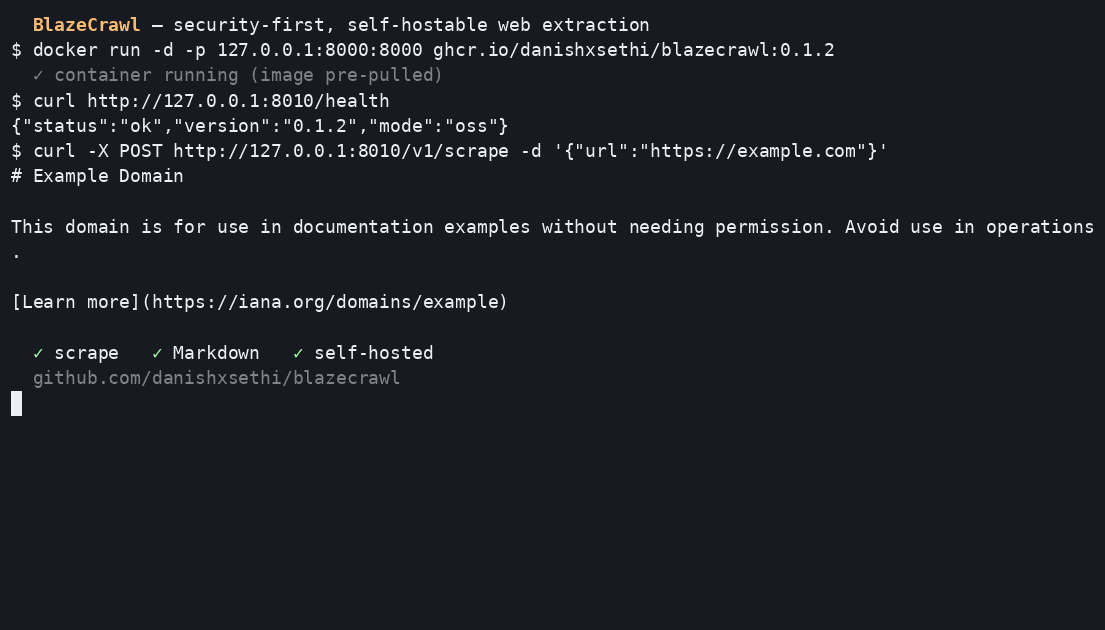
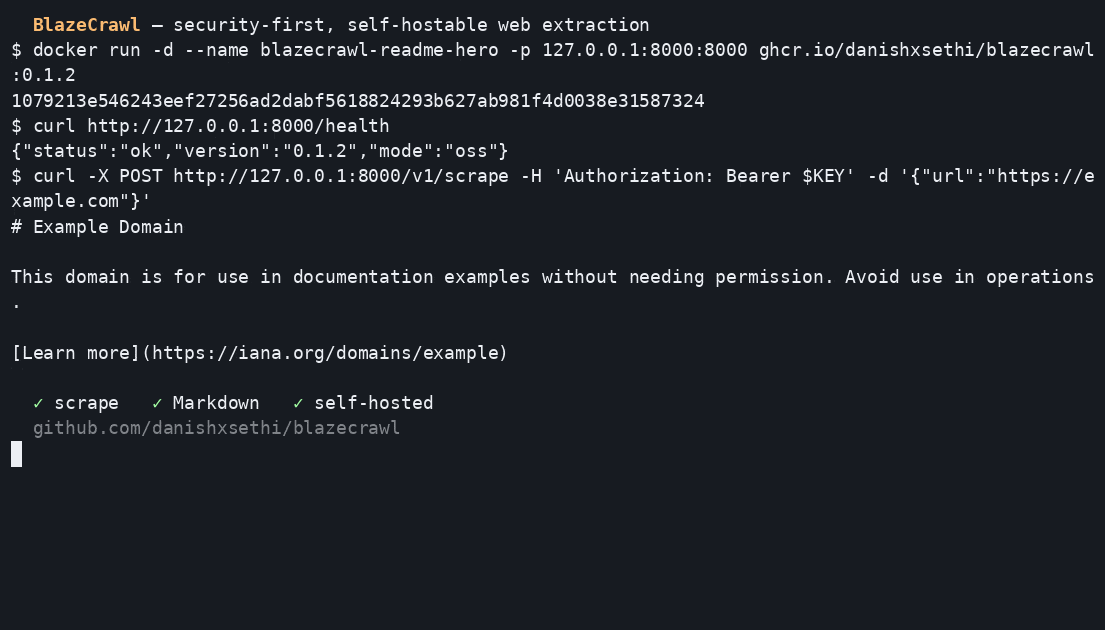
docs(readme): make visual demos fully execution-faithful
Tighten provenance so that any line shown with a '$' shell prompt is actually
executed. The prior demos' product output was already real; this closes the
semantic gap where two displayed 'commands' were representational rather than
executed.

Hero (session_hero.sh):
- Now self-contained. The visible 'docker run -d --name blazecrawl-readme-hero
  -p 127.0.0.1:8000:8000 ghcr.io/danishxsethi/blazecrawl:0.1.2' is the command
  actually executed; the real container ID is shown. The session genuinely waits
  for /ready, reads the generated local key from the container's first-run log
  line into KEY without printing it, then calls /health and /v1/scrape against
  that exact instance (the scrape command is shown with "$KEY"). A shell trap
  removes the container and volume on exit.

MCP (session_mcp.sh + new run_mcp_demo):
- The single '$' command shown is the one actually run:
  'scripts/readme_demo/run_mcp_demo', an executable wrapper that invokes the
  existing real, standards-compliant MCP stdio client (initialize ->
  tools/list -> tools/call scrape) against a real blazecrawl-mcp server.
  Explanatory lines (AI client → MCP → BlazeCrawl → web; 'blazecrawl-mcp serves
  ... over stdio') are presented as captions without a shell prompt.

render.sh:
- Hero runs self-contained first; a shared disposable loopback instance is then
  started only for map/crawl, security, and MCP, and stopped afterward.

Provenance language in scripts/readme_demo/README.md and the session/render
[…]

diff --git a/scripts/readme_demo/README.md b/scripts/readme_demo/README.md
@@ -1,8 +1,12 @@
 # README demo generation
 
-Reproducible tooling for the README's visual product demos. Every demo executes
-the **real** BlazeCrawl product against a disposable, loopback-only instance —
-no output is fabricated, no credentials are shown, and no external SaaS is used.
+Reproducible tooling for the README's visual product demos.
+
+**Truthfulness standard:** every line displayed with a `$` shell prompt is
+actually executed. Architectural captions are explicitly presented without a
+shell prompt. All product output shown comes from real BlazeCrawl execution
+against a disposable, loopback-only instance — no output is fabricated, no
+credentials are shown, and no external SaaS is used.
 
 ## What this produces
 
@@ -45,33 +49,47 @@ bash scripts/readme_demo/render.sh     # start instance, record, render raw GIFs
 bash scripts/readme_demo/optimize.sh   # optimize into docs/assets/ + poster PNGs
 ```
 
-`render.sh` starts a disposable container from
-`ghcr.io/danishxsethi/blazecrawl:0.1.2` bound to `127.0.0.1:8010` with an
-obviously non-secret demo key (`blz_local_readme_demo`), records the four
-sessions, and removes the container and its volume afterward.
+`render.sh` orchestrates two phases:
+
+1. **Hero (self-contained).** `session_hero.sh` itself runs the visible
+   `docker run` command against the published image on `127.0.0.1:8000`, reads
+   the generated local key from the container's first-run log line into a
+   variable **without printing it**, waits for `/ready`, calls `/health` and
+   `/v1/scrape`, then removes its own container and volume (via a shell trap).
+   The container serving the visible requests is the one the visible command
+   started.
+2. **Shared instance for the rest.** A disposable container is started on
+   `127.0.0.1:8010` with an obviously non-secret demo key
+   (`blz_local_readme_demo`) for the map/crawl, security, and MCP sessions, and
+   removed afterward.
 
 Approximate generation time: ~2–3 minutes (plus a one-time image pull).
 
 ## How it works
 
-- `session_hero.sh`, `session_map_crawl.sh`, `session_security.sh`,
-  `session_mcp.sh` are recorded by asciinema. They type commands with realistic
-  pacing but **execute them for real**; JSON responses are piped through
-  `python3`/`jq` only to select and format fields — the underlying bytes are the
-  server's actual output.
-- `mcp_demo_client.py` is a minimal, standards-compliant MCP stdio client used
-  only to drive a real `initialize → tools/list → tools/call` exchange for the
-  MCP demo. No LLM is involved or implied.
+- The four `session_*.sh` scripts are recorded by asciinema. They type commands
+  with realistic pacing and **execute every `$` command for real**; JSON
+  responses are piped through `python3`/`jq` only to select and format fields —
+  the underlying bytes are the server's actual output.
+- `run_mcp_demo` is the executable command shown in the MCP GIF. It only invokes
+  `mcp_demo_client.py`, a minimal, standards-compliant MCP stdio client that
+  drives a real `initialize → tools/list → tools/call` exchange against a real
+  `blazecrawl-mcp` server. No LLM is involved or implied.
 - The security demo pairs a labeled architectural **diagram** (resolve →
-  validate → pin → connect) with **real** allowed/blocked responses. The diagram
-  is not packet-level telemetry.
+  validate → pin → connect, presented as plain caption text, not a shell
+  command) with **real** allowed/blocked responses. The diagram is not
+  packet-level telemetry.
 
 ## Notes / honest limitations
 
-- Commands are executed against a loopback demo instance on `127.0.0.1:8010`; the
-  README quickstart uses the default `8000`. The flow is identical.
-- The demo key is a placeholder that satisfies the key format; it is loopback-only
-  and never a real credential. The visible terminal never shows a key value.
+- The hero runs on `127.0.0.1:8000`; the map/crawl, security, and MCP demos run
+  against a shared loopback instance on `127.0.0.1:8010`. The README quickstart
+  uses the default `8000`. The flow is identical.
+- The hero's local API key is generated by the container on first run and read
+  from its logs into a variable; it is never printed. The shared instance uses a
+  documented placeholder key (`blz_local_readme_demo`) that satisfies the key
+  format, is loopback-only, and is never a real credential. No frame shows a key
+  value.
 - `quotes.toscrape.com` is used for the map/crawl demo because it is a stable
   public site designed for scraping practice; `example.com` is used for the
   single-page scrape.
